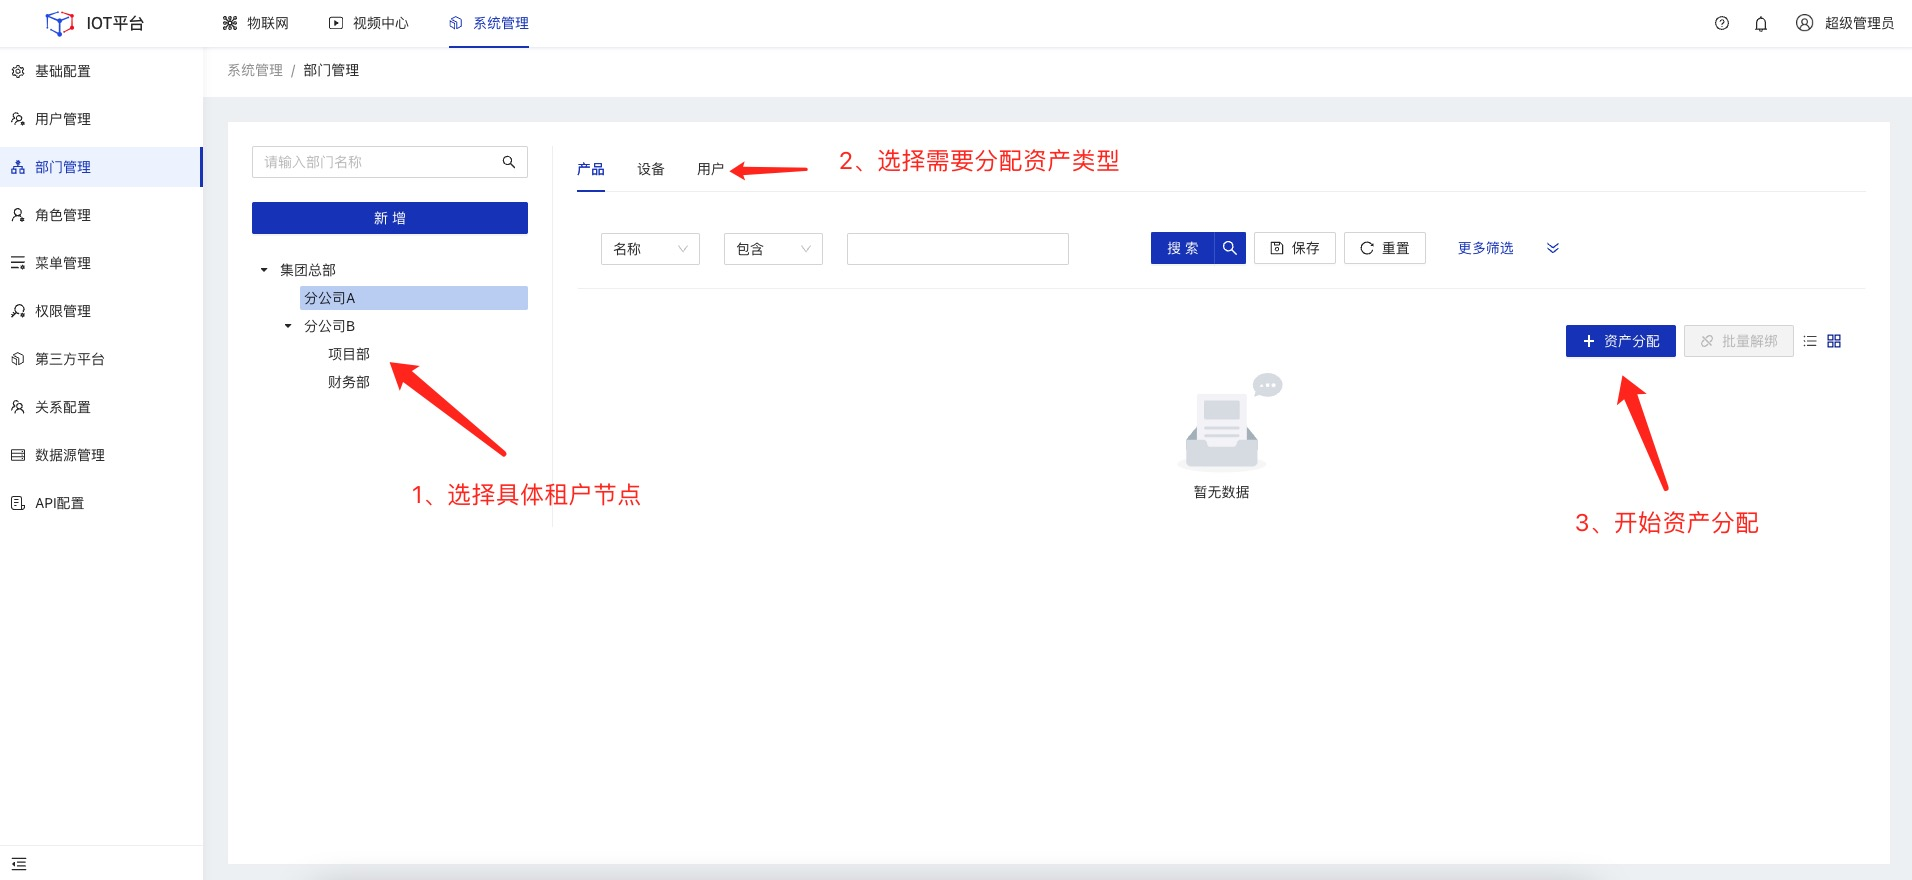
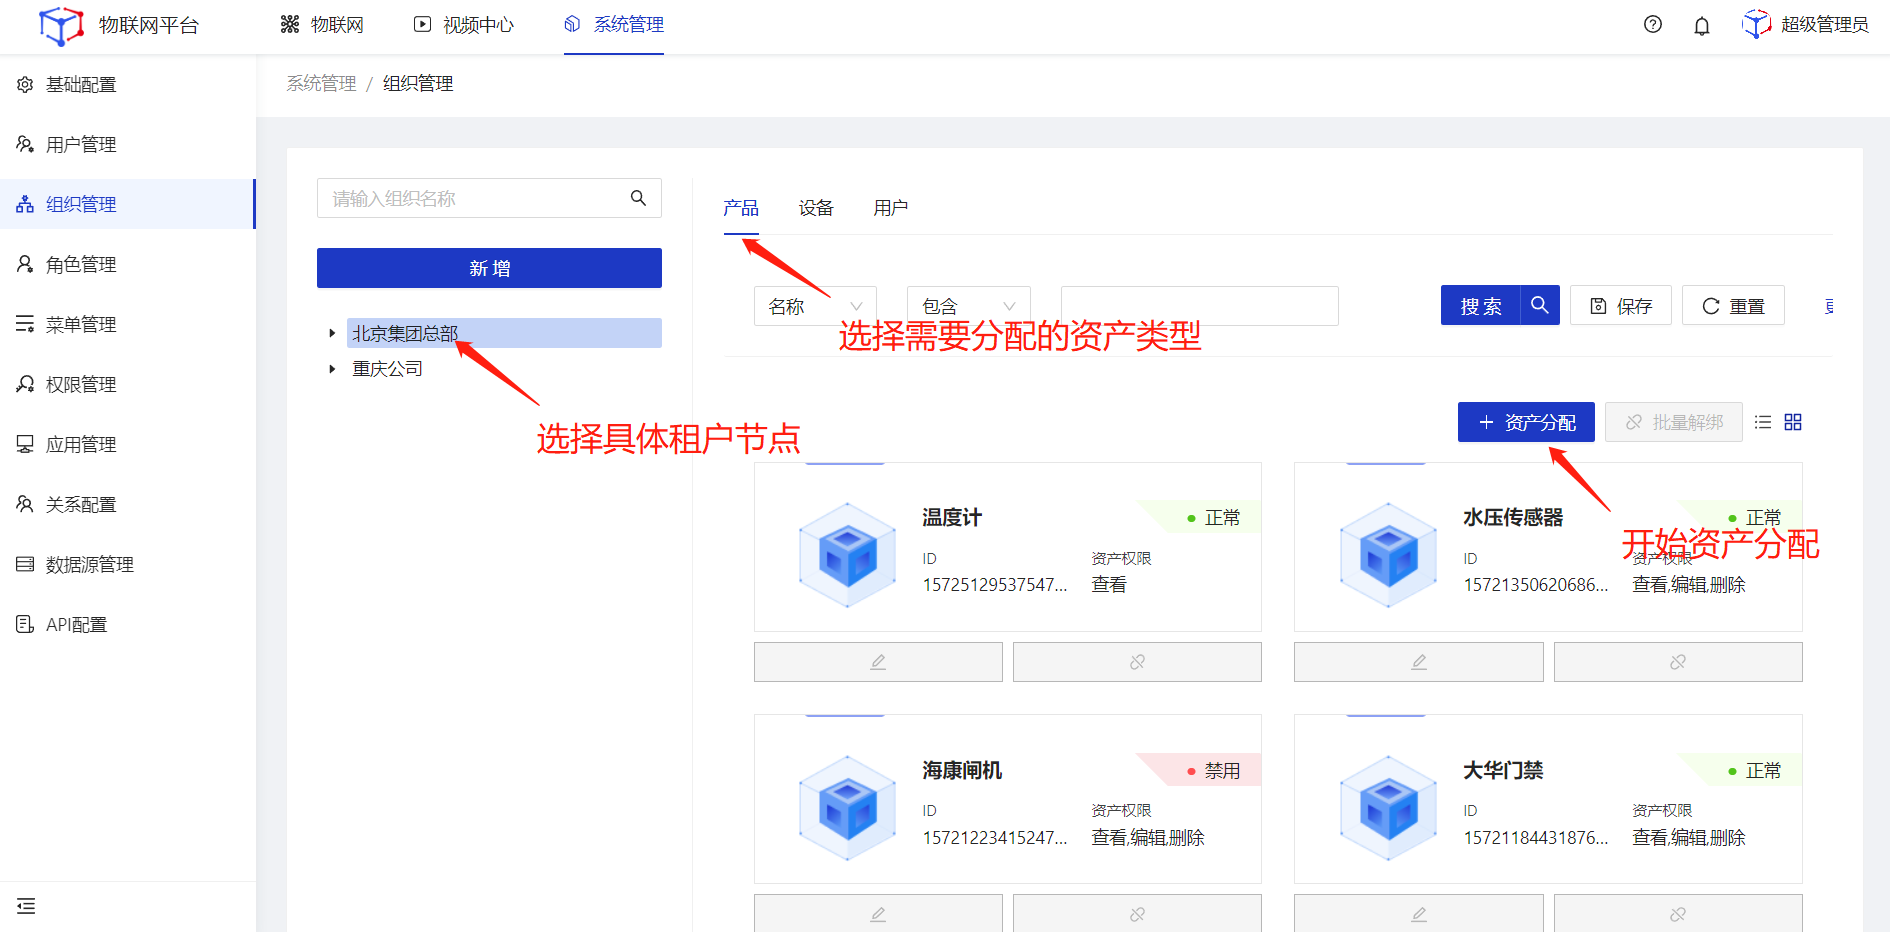
组织调整为部门相关截图与文案调整

diff --git a/System_settings/Basic_configuration13.md b/System_settings/Basic_configuration13.md
@@ -34,7 +34,7 @@
     <span class='iconfont icon-bangzhu explanation-icon'></span>
     <span class='explanation-title font-weight'>说明</span>
   </p>
-  <li>点击角色、部门右侧的添加icon，将会在浏览器打开新tab页，添加完成后将自动关闭对应的tab页，并将添加的信息回填到当前页的下拉框中。</li>
+  <li>点击角色组织右侧的添加icon，将会在浏览器打开新tab页，添加完成后将自动关闭对应的tab页，并将添加的信息回填到当前页的下拉框中。</li>
   <li>用户具有多个角色时，拥有多个角色权限的并集。</li>
 </div>
 
@@ -85,14 +85,14 @@
 #### 编辑
 ##### 操作步骤
 1.**登录**Jetlinks物联网平台。</br>
-2.点击顶部**系统管理**，在左侧导航栏，选择**部门管理**，进入列表页。</br>
-3.鼠标移入左侧树中的具体数据，点击**编辑**按钮，在弹框页编辑部门信息，然后点击**确定**。</br>
+2.点击顶部**系统管理**，在左侧导航栏，选择**组织管理**，进入列表页。</br>
+3.鼠标移入左侧树中的具体数据，点击**编辑**按钮，在弹框页编辑组织信息，然后点击**确定**。</br>
 ![](./img/156.png)
 
 #### 删除
 ##### 操作步骤
 1.**登录**Jetlinks物联网平台。</br>
-2.点击顶部**系统管理**，在左侧导航栏，选择**部门管理**，进入列表页。</br>
+2.点击顶部**系统管理**，在左侧导航栏，选择**组织管理**，进入列表页。</br>
 3.鼠标移入左侧树中的具体数据，点击**删除**按钮，然后点击**确定**。</br>
 ![](./img/157.png)
 
@@ -115,7 +115,7 @@
     <span class='explanation-title font-weight'>说明</span>
   </p>
 <li>用户类型的资产不涉及此功能。</li>
-<li>同一个设备可以被分配至多个部门。</li>
+<li>同一个设备可以被分配至多组织。</li>
 </div>
 
 

diff --git a/common-problems/tenant.md b/common-problems/tenant.md
@@ -6,13 +6,13 @@
 
 ### "租户"功能支持
 
-平台对"租户"概念由[部门管理](/System_settings/Basic_configuration13.md#部门管理)功能进行支持
+平台对"租户"概念由[组织管理](/System_settings/Basic_configuration13.md#组织管理)功能进行支持
 
-*注：部门菜单名称可通过菜单管理功能，修改为"租户"管理*
+*注：组织菜单名称可通过菜单管理功能，修改为"租户"管理*
 
 #### 新增"租户"
 
-1.点击顶部**系统管理**，在左侧导航栏，选择**部门管理**，进入列表页。</br>
+1.点击顶部**系统管理**，在左侧导航栏，选择*组织管理**，进入列表页。</br>
 2.点击左侧**新增**按钮，在弹框页填写"租户"信息，然后点击**确定**。</br>
 ![租户新增](./images/tenant-add.jpg)
 
@@ -46,7 +46,7 @@
 
 1. "租户"用户进入系统功能后，对其它租户的资产数据不可见。
 2. "租户"资产分配只能分配当前用户所拥有的资产。
-3. "租户"可以看到"租户"下属机构、部门等虚拟维度的所有资产数据
+3. "租户"可以看到"租户"下属机构组织等虚拟维度的所有资产数据
 4. "租户"之间的所有资产隔离均使用逻辑隔离实现
 
 <div class='explanation warning'>
@@ -59,4 +59,4 @@
 
 #### 其他操作
 
-"租户"其它操作请参考：[部门管理](/System_settings/Basic_configuration13.md#部门管理)
+"租户"其它操作请参考：[组织管理](/System_settings/Basic_configuration13.md#组织管理)

diff --git a/Best_practices/Scene_linkage.md b/Best_practices/Scene_linkage.md
@@ -41,7 +41,7 @@
 
 ## 设备触发
 适用于多个不同设备间执行动作的联动。</br>
-**例如**：打开综合办部门房间门的时候，打开电空调，开启摄像头录像功能，5秒后关闭录像功能。
+**例如**：打开综合组织房间门的时候，打开电空调，开启摄像头录像功能，5秒后关闭录像功能。
 
 #### 前置条件
 1.已经创建好智能门、摄像头产品。</br>
@@ -49,7 +49,7 @@
 
 #### 操作步骤
 1.**登录**Jetlinks物联网平台，进入**规则引擎>场景联动**菜单，点击**新增**，进入详情页。</br>
-2.触发方式选择为**设备触发**，产品选择**智能门**，设备**按部门**选择为**综合办**。</br>
+2.触发方式选择为**设备触发**，产品选择**智能门**，设备**组织**选择为**综合办**。</br>
 ![](./img/217.png)
 3.触发条件设置参数为**开门/当前值**，**等于**手动输入**是**。</br>
 ![](./img/218.png)
